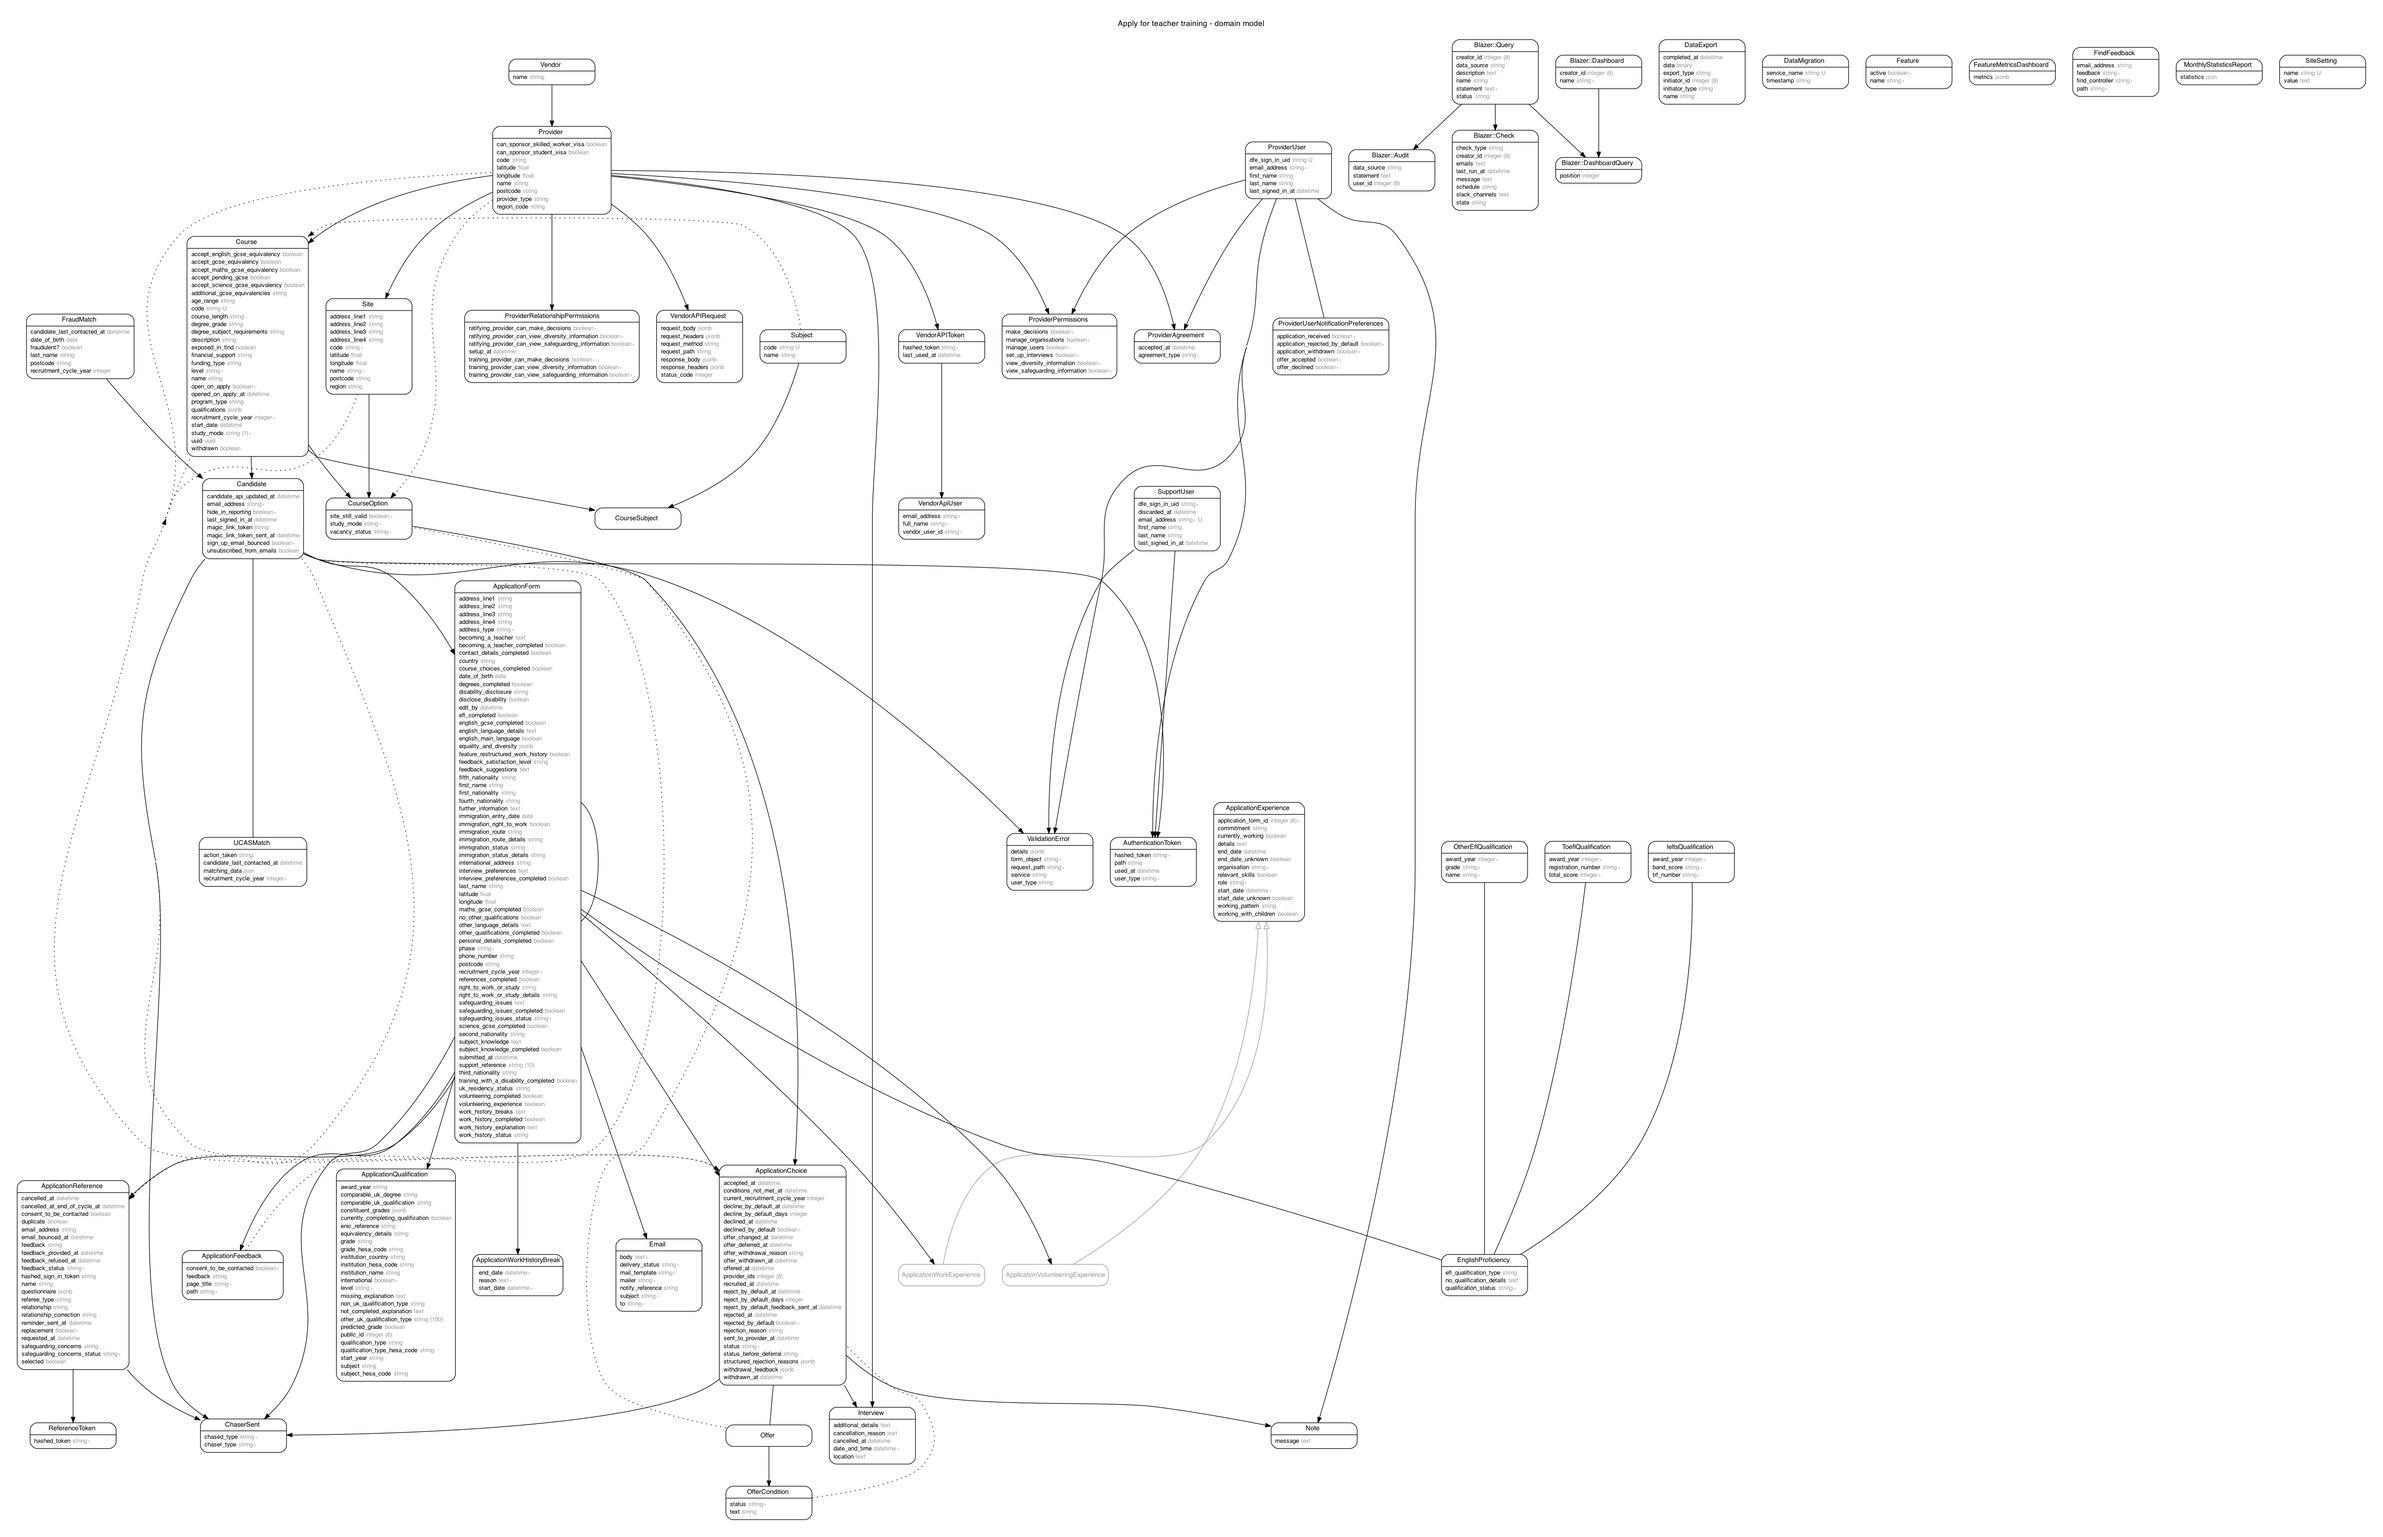
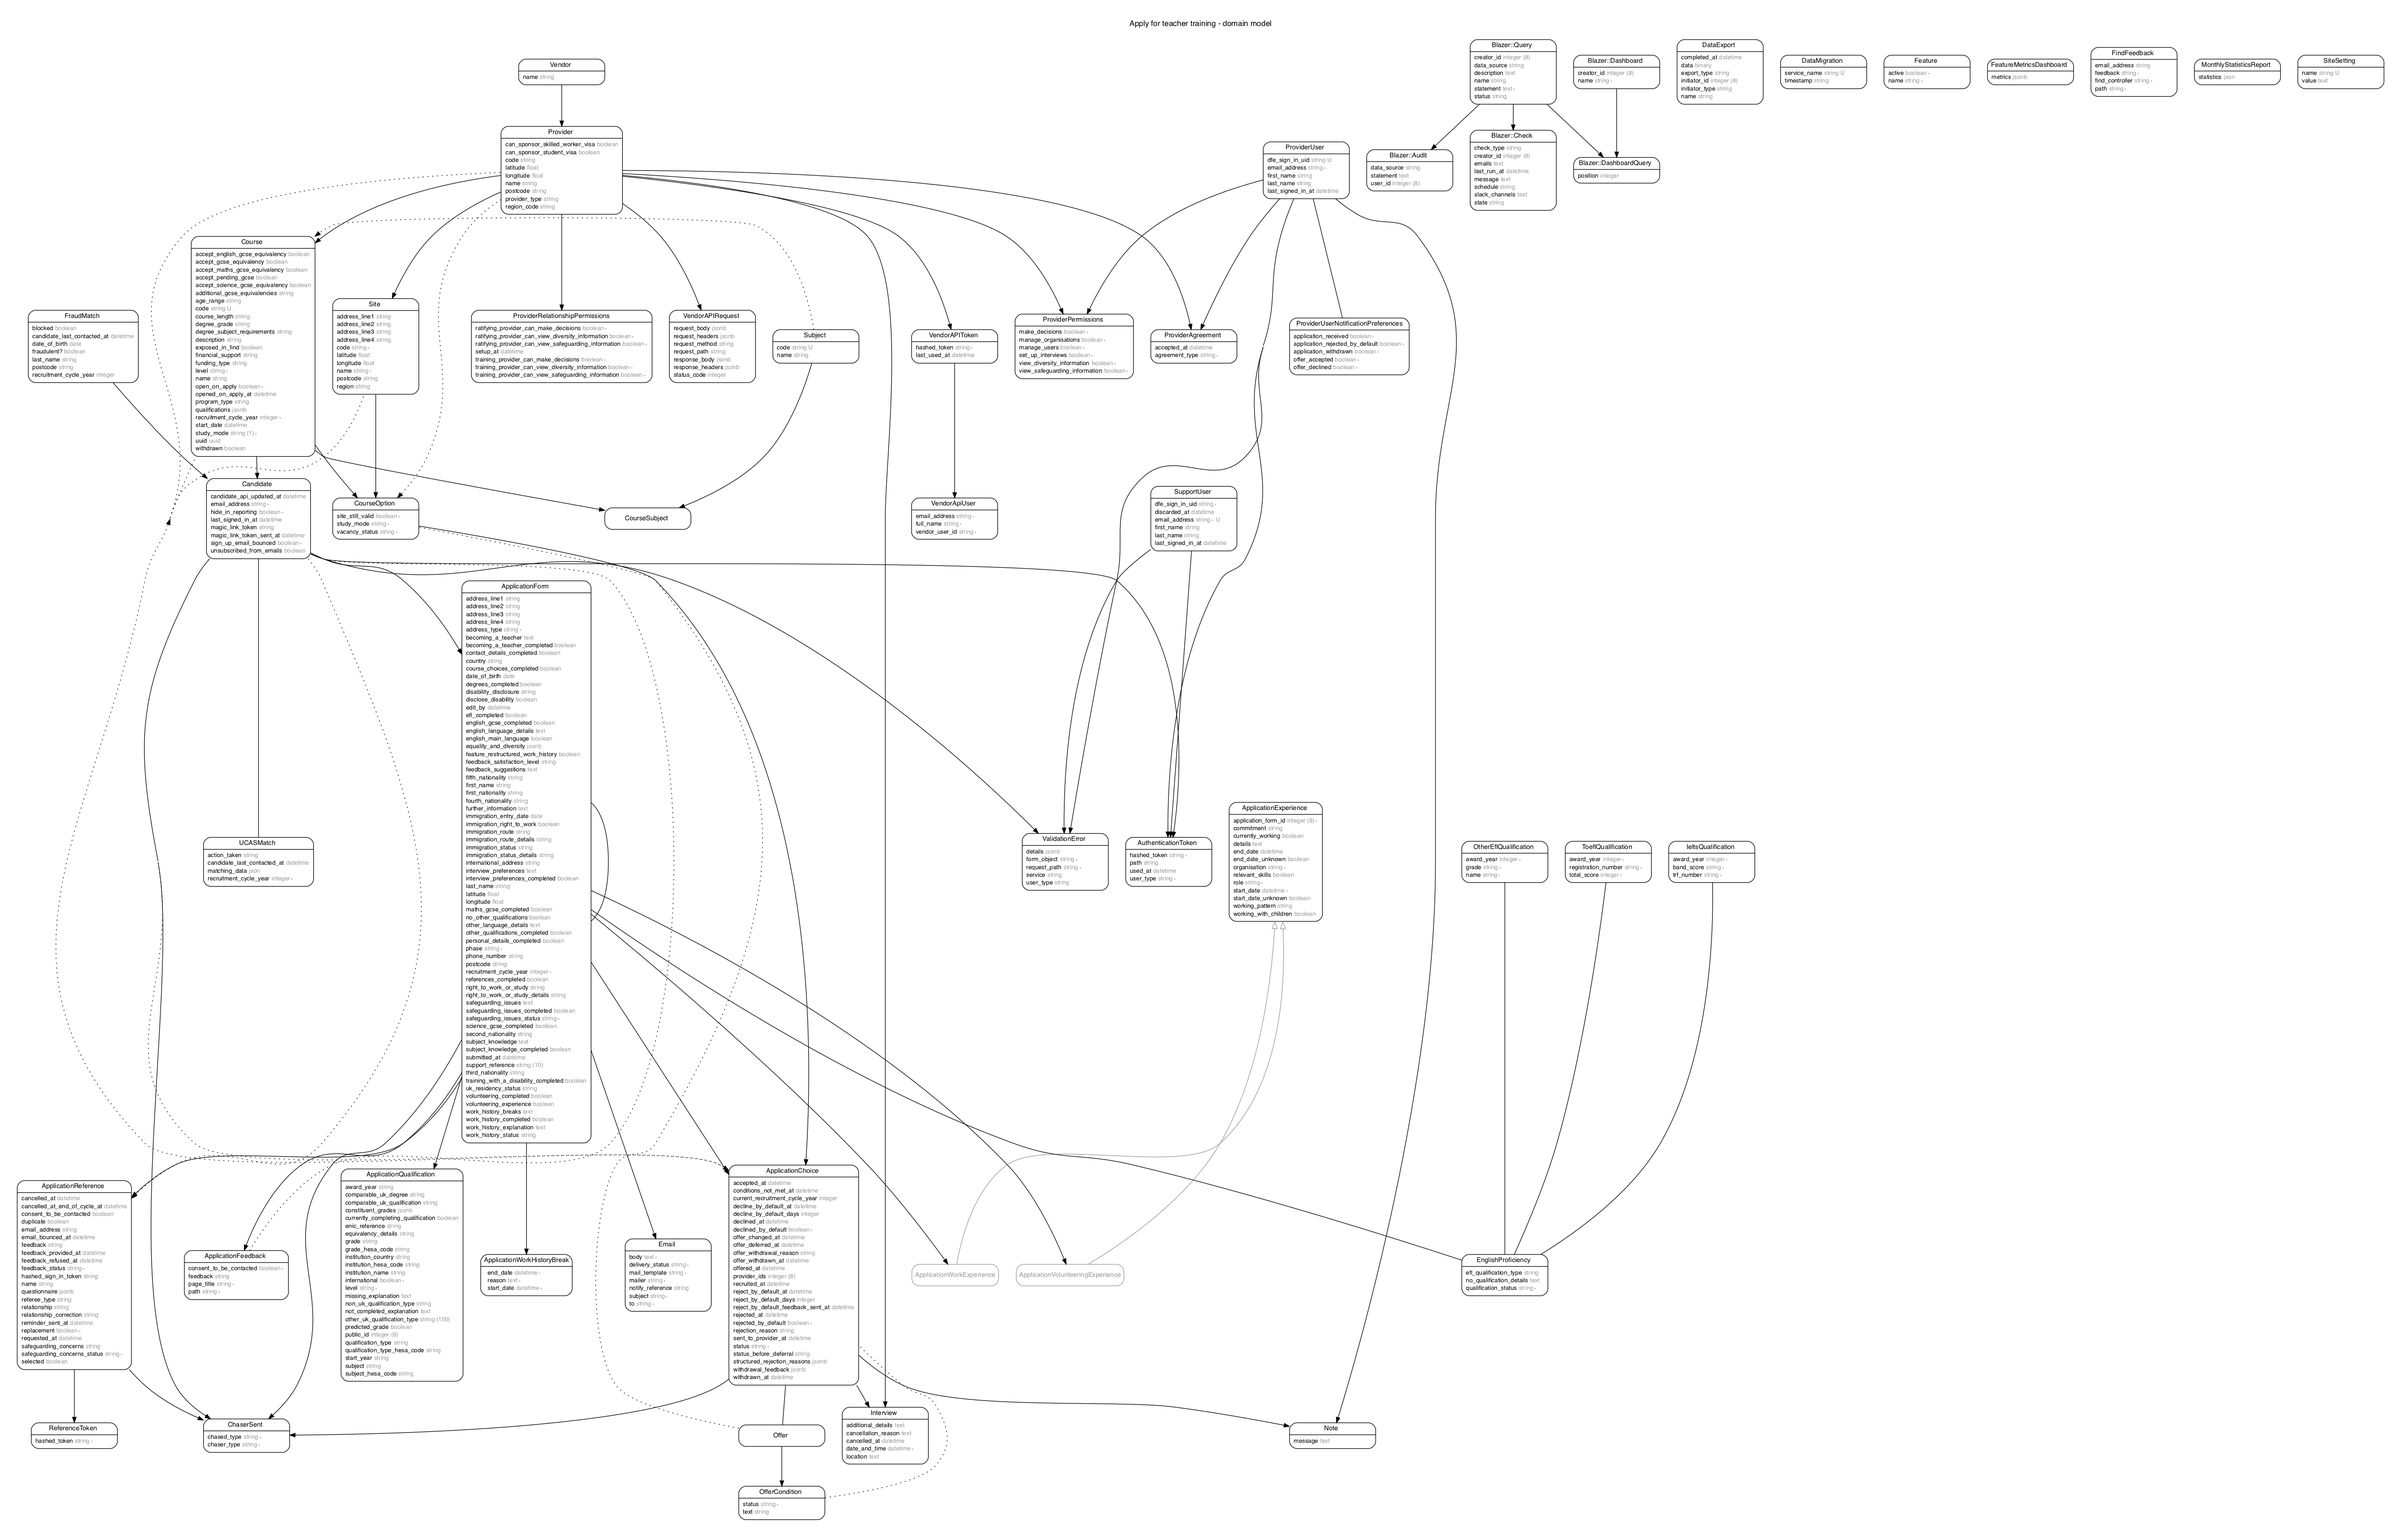
Add blocked to the fraud_matches table

diff --git a/db/schema.rb b/db/schema.rb
@@ -10,7 +10,7 @@
 #
 # It's strongly recommended that you check this file into your version control system.
 
-ActiveRecord::Schema.define(version: 2021_10_07_103121) do
+ActiveRecord::Schema.define(version: 2021_10_08_124803) do
 
   create_sequence "qualifications_public_id_seq", start: 120000
 
@@ -472,6 +472,7 @@ ActiveRecord::Schema.define(version: 2021_10_07_103121) do
     t.boolean "fraudulent?"
     t.datetime "created_at", precision: 6, null: false
     t.datetime "updated_at", precision: 6, null: false
+    t.boolean "blocked", default: false
   end
 
   create_table "ielts_qualifications", force: :cascade do |t|

diff --git a/db/migrate/20211008124803_add_blocked_to_fraud_matches.rb b/db/migrate/20211008124803_add_blocked_to_fraud_matches.rb
@@ -1,0 +1,5 @@
+class AddBlockedToFraudMatches < ActiveRecord::Migration[6.1]
+  def change
+    add_column :fraud_matches, :blocked, :boolean, default: false
+  end
+end
